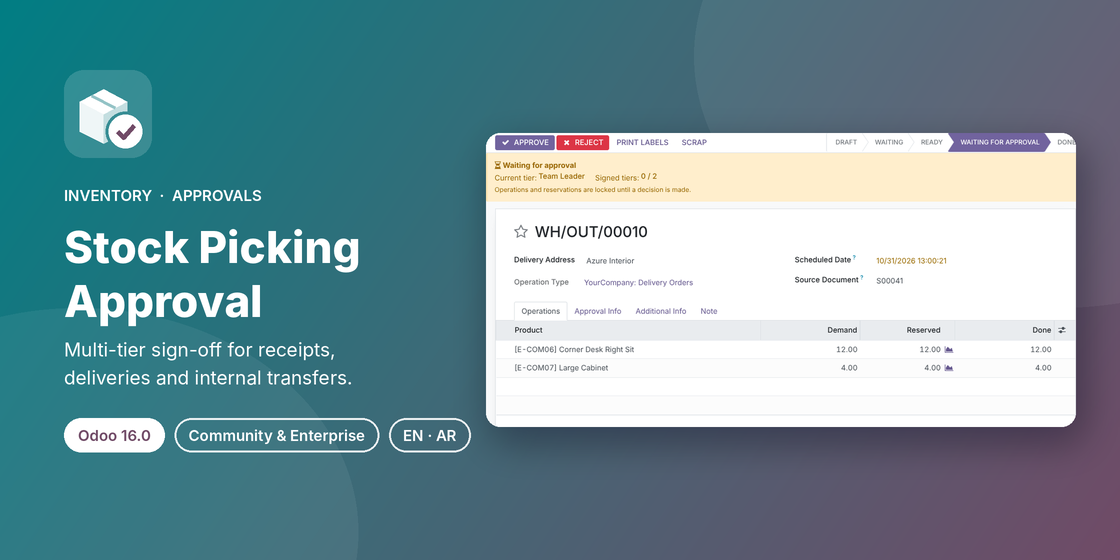
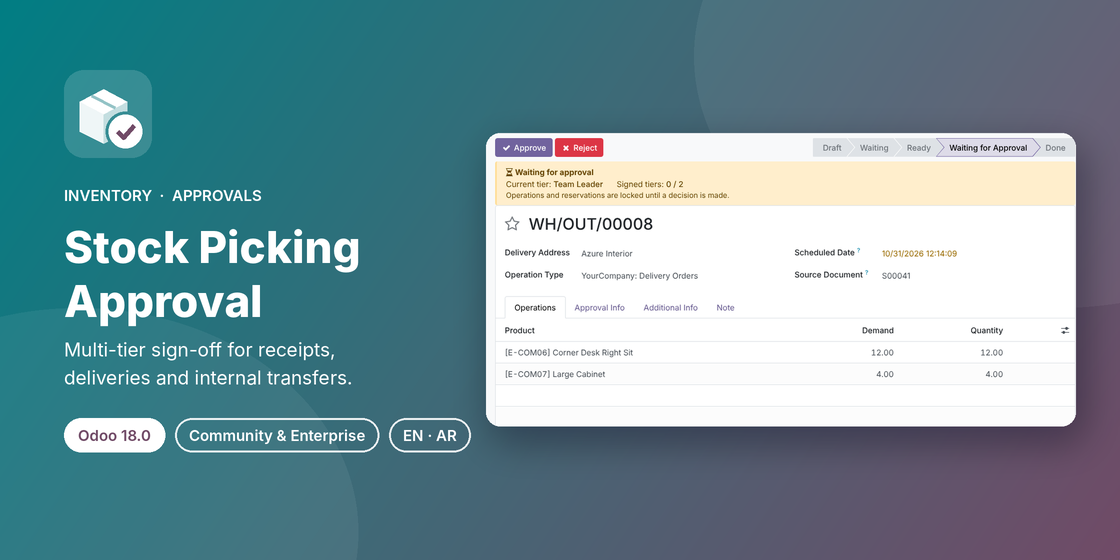
Add files via upload

diff --git a/stock_picking_approval_advanced/static/description/index.html b/stock_picking_approval_advanced/static/description/index.html
@@ -1,4 +1,4 @@
-<!-- Odoo Apps description page for stock_picking_approval_advanced (Odoo 16.0). Inline styles only: apps.odoo.com strips <style> and <script> blocks. -->
+<!-- Odoo Apps description page for stock_picking_approval_advanced (Odoo 18.0). Inline styles only: apps.odoo.com strips <style> and <script> blocks. -->
 <section style="max-width:1120px;margin:0 auto;padding:0 16px;font-family:-apple-system,BlinkMacSystemFont,'Segoe UI',Roboto,'Helvetica Neue',Arial,sans-serif;color:#2b2b33;">
 
 <!-- ============================== HERO ============================== -->
@@ -7,9 +7,9 @@
   <h1 style="font-size:40px;line-height:1.15;font-weight:700;margin:0 0 14px;color:#ffffff;">Advanced Stock Picking Approval</h1>
   <p style="font-size:19px;line-height:1.55;max-width:760px;margin:0 0 24px;color:#ffffff;opacity:.95;">Clicking <b>Validate</b> no longer moves stock on its own. Receipts, Delivery Orders and Internal Transfers that match your rules wait in a locked <b>Waiting for Approval</b> state until every approval tier has signed off, with a full audit trail of who approved, when, and why a request was rejected.</p>
   <div>
-    <span style="display:inline-block;border:1px solid rgba(255,255,255,.7);border-radius:20px;padding:6px 14px;margin:0 8px 8px 0;font-size:14px;">Odoo 16.0</span>
+    <span style="display:inline-block;border:1px solid rgba(255,255,255,.7);border-radius:20px;padding:6px 14px;margin:0 8px 8px 0;font-size:14px;">Odoo 18.0</span>
     <span style="display:inline-block;border:1px solid rgba(255,255,255,.7);border-radius:20px;padding:6px 14px;margin:0 8px 8px 0;font-size:14px;">Community &amp; Enterprise</span>
-    <span style="display:inline-block;border:1px solid rgba(255,255,255,.7);border-radius:20px;padding:6px 14px;margin:0 8px 8px 0;font-size:14px;">29 automated tests</span>
+    <span style="display:inline-block;border:1px solid rgba(255,255,255,.7);border-radius:20px;padding:6px 14px;margin:0 8px 8px 0;font-size:14px;">28 automated tests</span>
     <span style="display:inline-block;border:1px solid rgba(255,255,255,.7);border-radius:20px;padding:6px 14px;margin:0 8px 8px 0;font-size:14px;">English &amp; Arabic</span>
     <span style="display:inline-block;border:1px solid rgba(255,255,255,.7);border-radius:20px;padding:6px 14px;margin:0 8px 8px 0;font-size:14px;">Technical name: stock_picking_approval_advanced</span>
     <span style="display:inline-block;border:1px solid rgba(255,255,255,.7);border-radius:20px;padding:6px 14px;margin:0 8px 8px 0;font-size:14px;">LGPL-3</span>
@@ -21,7 +21,7 @@
   <div style="flex:1 1 220px;margin:8px;background:#f6f4f6;border-radius:14px;padding:20px 22px;"><div style="font-size:30px;font-weight:700;color:#714B67;">3 operation kinds</div><div style="font-size:15px;color:#555;">Receipts, Delivery Orders and Internal Transfers, each switchable per rule</div></div>
   <div style="flex:1 1 220px;margin:8px;background:#eef6f6;border-radius:14px;padding:20px 22px;"><div style="font-size:30px;font-weight:700;color:#017E84;">N sequential tiers</div><div style="font-size:15px;color:#555;">As many tiers per rule as you need, signed in order by users or groups</div></div>
   <div style="flex:1 1 220px;margin:8px;background:#f6f4f6;border-radius:14px;padding:20px 22px;"><div style="font-size:30px;font-weight:700;color:#714B67;">0 stock moved</div><div style="font-size:15px;color:#555;">until the last tier approves: operations and reservations stay locked</div></div>
-  <div style="flex:1 1 220px;margin:8px;background:#eef6f6;border-radius:14px;padding:20px 22px;"><div style="font-size:30px;font-weight:700;color:#017E84;">29 tests</div><div style="font-size:15px;color:#555;">Automated, plus Odoo&rsquo;s stock test suite re-run with the module installed</div></div>
+  <div style="flex:1 1 220px;margin:8px;background:#eef6f6;border-radius:14px;padding:20px 22px;"><div style="font-size:30px;font-weight:700;color:#017E84;">28 tests</div><div style="font-size:15px;color:#555;">Automated, plus Odoo&rsquo;s 615 stock tests passing with the module installed</div></div>
 </div>
 
 <!-- ============================== WHY ============================== -->
@@ -29,7 +29,7 @@
 <p style="font-size:16px;color:#555;margin:0 0 18px;">Stock leaves the warehouse the moment someone clicks Validate. For high-value goods, sensitive customers or junior staff, that is one click too few.</p>
 <div style="display:flex;flex-wrap:wrap;margin:0 -10px;">
   <div style="flex:1 1 440px;margin:10px;border:1px solid #f1d6d6;background:#fff8f8;border-radius:14px;padding:24px 26px;">
-    <h3 style="font-size:19px;font-weight:700;color:#b33939;margin:0 0 12px;">In standard Odoo 16</h3>
+    <h3 style="font-size:19px;font-weight:700;color:#b33939;margin:0 0 12px;">In standard Odoo 18</h3>
     <ul style="font-size:15px;line-height:1.65;margin:0;padding-left:20px;color:#3a3a42;">
       <li><b>Validate executes the transfer immediately</b>: there is no review step between preparation and stock movement.</li>
       <li>Any Inventory user who can open the transfer can <b>validate it</b>, whatever the operation or warehouse.</li>
@@ -64,7 +64,7 @@
 
 <!-- ============================== FEATURES ============================== -->
 <h2 style="font-size:28px;font-weight:700;margin:48px 0 6px;color:#2b2b33;">Features</h2>
-<p style="font-size:16px;color:#555;margin:0 0 6px;">Screenshots were taken on Odoo 16.0 with demo data: a two-tier rule for customer deliveries (Team Leader Sara Haddad, then any member of a <i>Warehouse Supervisors</i> group), a single-tier rule for internal transfers, and a receipts rule that only applies when Marc Demo validates.</p>
+<p style="font-size:16px;color:#555;margin:0 0 6px;">Screenshots were taken on Odoo 18.0 with demo data: a two-tier rule for customer deliveries (Team Leader Sara Haddad, then any member of a <i>Warehouse Supervisors</i> group), a single-tier rule for internal transfers, and a receipts rule that only applies when Marc Demo validates.</p>
 
 <div style="margin:44px 0 0;">
   <div style="font-size:13px;font-weight:700;color:#017E84;letter-spacing:1px;text-transform:uppercase;">Menus</div>
@@ -95,7 +95,7 @@
 <div style="margin:44px 0 0;">
   <div style="font-size:13px;font-weight:700;color:#017E84;letter-spacing:1px;text-transform:uppercase;">Feature 3</div>
   <h3 style="font-size:23px;font-weight:700;margin:4px 0 8px;">Validate &rarr; Waiting for Approval, with everything locked</h3>
-  <p style="font-size:15px;line-height:1.6;color:#555;margin:0 0 14px;">When a governed transfer is validated, drafts are confirmed and reserved, the reserved quantities are copied into <b>Done</b> (the same step as Odoo&rsquo;s <i>Immediate Transfer</i> dialog, so approvers review exactly what will move) and Odoo&rsquo;s own checks run (lots, serials, empty quantities), but <b>nothing is executed</b>. The status bar shows the new <b>Waiting for Approval</b> step, a banner shows the <b>Current tier</b> and <b>Signed tiers</b>, and <b>Validate</b>, <b>Check Availability</b>, <b>Unreserve</b> and <b>Set/Clear quantities</b> disappear, replaced by <b>Approve</b> and <b>Reject</b> for the current approver. The operations list becomes read-only, and the same lock is enforced on the server: move lines cannot be added, edited or deleted, and the transfer cannot be unreserved, rechecked or processed.</p>
+  <p style="font-size:15px;line-height:1.6;color:#555;margin:0 0 14px;">When a governed transfer is validated, drafts are confirmed, quantities are prepared and Odoo&rsquo;s own checks run (lots, serials, empty quantities), but <b>nothing is executed</b>. The status bar shows the new <b>Waiting for Approval</b> step, a banner shows the <b>Current tier</b> and <b>Signed tiers</b>, and the <b>Validate</b> buttons are replaced by <b>Approve</b> and <b>Reject</b> for the current approver. The operations list becomes read-only, and the same lock is enforced on the server: move lines cannot be added, edited or deleted, and the transfer cannot be unreserved, rechecked or processed.</p>
   <img src="spa_07_waiting_form.png" alt="Delivery waiting for approval, seen by the tier 1 approver" style="width:100%;border:1px solid #e1e1e6;border-radius:10px;box-shadow:0 6px 24px rgba(30,30,60,.10);"/>
   <div style="font-size:13px;color:#777;margin:6px 0 0;">Seen by Sara Haddad (tier 1): her Transfer Approval activity and the request email are in the chatter.</div>
 </div>
@@ -179,7 +179,7 @@
 <h2 style="font-size:28px;font-weight:700;margin:48px 0 6px;color:#2b2b33;">Built for real-world corner cases</h2>
 <p style="font-size:16px;color:#555;margin:0 0 18px;">Handled in the code, and most of them pinned down by the automated tests.</p>
 <div style="display:flex;flex-wrap:wrap;margin:0 -8px;font-size:15px;line-height:1.55;">
-  <div style="flex:1 1 320px;margin:8px;padding:16px 18px;border:1px solid #e8e8ee;border-radius:12px;"><b>Draft transfers</b><br/><span style="color:#555;">Validating a draft confirms and reserves it, then copies the reserved quantities into Done before submission, like the standard Immediate Transfer step. Quantities already entered by hand are kept.</span></div>
+  <div style="flex:1 1 320px;margin:8px;padding:16px 18px;border:1px solid #e8e8ee;border-radius:12px;"><b>Draft transfers</b><br/><span style="color:#555;">Validating a draft confirms it and fills the demanded quantities before submission, exactly like the standard Validate.</span></div>
   <div style="flex:1 1 320px;margin:8px;padding:16px 18px;border:1px solid #e8e8ee;border-radius:12px;"><b>Changes after approval</b><br/><span style="color:#555;">If quantities, products, lots or locations change on an approved transfer that is not yet done, the approval is withdrawn and a new cycle is required.</span></div>
   <div style="flex:1 1 320px;margin:8px;padding:16px 18px;border:1px solid #e8e8ee;border-radius:12px;"><b>Backorders</b><br/><span style="color:#555;">A backorder created from an approved transfer starts with no approval and goes through its own cycle.</span></div>
   <div style="flex:1 1 320px;margin:8px;padding:16px 18px;border:1px solid #e8e8ee;border-radius:12px;"><b>Inventory adjustments</b><br/><span style="color:#555;">Physical stock corrections can still release a locked reservation: reality wins over a pending approval.</span></div>
@@ -209,14 +209,14 @@
 <h2 style="font-size:28px;font-weight:700;margin:48px 0 6px;color:#2b2b33;">Technical details</h2>
 <table style="width:100%;border-collapse:collapse;font-size:15px;margin-top:14px;overflow-wrap:anywhere;">
   <tbody>
-    <tr style="border-bottom:1px solid #eee;"><td style="padding:10px 14px;width:32%;color:#777;">Odoo version</td><td style="padding:10px 14px;">16.0, Community and Enterprise</td></tr>
+    <tr style="border-bottom:1px solid #eee;"><td style="padding:10px 14px;width:32%;color:#777;">Odoo version</td><td style="padding:10px 14px;">18.0, Community and Enterprise</td></tr>
     <tr style="border-bottom:1px solid #eee;background:#fafafa;"><td style="padding:10px 14px;color:#777;">Depends on</td><td style="padding:10px 14px;"><code>stock</code>, <code>mail</code></td></tr>
     <tr style="border-bottom:1px solid #eee;"><td style="padding:10px 14px;color:#777;">Python dependency</td><td style="padding:10px 14px;">None</td></tr>
     <tr style="border-bottom:1px solid #eee;background:#fafafa;"><td style="padding:10px 14px;color:#777;">Menus</td><td style="padding:10px 14px;">Inventory &rsaquo; Operations &rsaquo; Transfers to Approve<br/>Inventory &rsaquo; Configuration &rsaquo; Approval Rules</td></tr>
     <tr style="border-bottom:1px solid #eee;"><td style="padding:10px 14px;color:#777;">Models</td><td style="padding:10px 14px;"><code>stock.picking.approval.rule</code>, <code>stock.picking.approval.tier</code>, <code>stock.picking.approval.line</code>, wizard <code>stock.picking.approval.wizard</code></td></tr>
     <tr style="border-bottom:1px solid #eee;background:#fafafa;"><td style="padding:10px 14px;color:#777;">Extends</td><td style="padding:10px 14px;"><code>stock.picking</code> (new state <code>to_approve</code>, Approval Info tab, filters), <code>stock.move</code> and <code>stock.move.line</code> (lock while under review)</td></tr>
     <tr style="border-bottom:1px solid #eee;"><td style="padding:10px 14px;color:#777;">Data</td><td style="padding:10px 14px;">3 email templates (Request, Approved, Rejected), 1 activity type (Transfer Approval)</td></tr>
-    <tr style="border-bottom:1px solid #eee;background:#fafafa;"><td style="padding:10px 14px;color:#777;">Automated tests</td><td style="padding:10px 14px;">29 <code>TransactionCase</code> tests: state interception, locking, hidden standard buttons, sequential and group-based tiers, permission enforcement, self-approval, rejection reasons, recall and cancel, rule scope and priority, signatures, notifications, backorders. Odoo&rsquo;s stock test suite (460 tests) gives the same results with the module installed as without it.</td></tr>
+    <tr style="border-bottom:1px solid #eee;background:#fafafa;"><td style="padding:10px 14px;color:#777;">Automated tests</td><td style="padding:10px 14px;">28 <code>TransactionCase</code> tests: state interception, locking, sequential and group-based tiers, permission enforcement, self-approval, rejection reasons, recall and cancel, rule scope and priority, signatures, notifications, backorders. Odoo&rsquo;s stock test suite (615 tests) passes with the module installed.</td></tr>
     <tr style="border-bottom:1px solid #eee;"><td style="padding:10px 14px;color:#777;">Translations</td><td style="padding:10px 14px;">Arabic (<code>ar_001</code>), plus a <code>.pot</code> template</td></tr>
     <tr style="border-bottom:1px solid #eee;background:#fafafa;"><td style="padding:10px 14px;color:#777;">License</td><td style="padding:10px 14px;">LGPL-3</td></tr>
   </tbody>

diff --git a/stock_picking_approval_advanced/tests/test_picking_approval.py b/stock_picking_approval_advanced/tests/test_picking_approval.py
@@ -1,7 +1,7 @@
 # -*- coding: utf-8 -*-
 from odoo import Command
 from odoo.exceptions import AccessError, UserError, ValidationError
-from odoo.tests import Form, TransactionCase, new_test_user, tagged
+from odoo.tests import TransactionCase, new_test_user, tagged
 
 
 @tagged('post_install', '-at_install', 'stock_picking_approval')
@@ -25,7 +25,7 @@ class TestPickingApproval(TransactionCase):
         cls.type_int.active = True
 
         cls.product = cls.env['product.product'].create({
-            'name': 'Approval Widget', 'type': 'product',
+            'name': 'Approval Widget', 'type': 'consu', 'is_storable': True,
         })
         cls.env['stock.quant']._update_available_quantity(cls.product, cls.stock_location, 100)
 
@@ -87,14 +87,7 @@ class TestPickingApproval(TransactionCase):
         return self._create_picking(self.type_out, self.stock_location, self.customer_location, qty)
 
     def _submit(self, picking, user=None):
-        """Click Validate. Transfers without an approval rule follow the standard 16.0 flow,
-        where an "Immediate Transfer?" dialog may open: confirm it like a user would."""
-        res = picking.with_user(user or self.requester).button_validate()
-        if isinstance(res, dict) and res.get('res_model') == 'stock.immediate.transfer':
-            wizard = Form(self.env[res['res_model']].with_user(user or self.requester).with_context(
-                res['context'])).save()
-            res = wizard.process()
-        return res
+        return picking.with_user(user or self.requester).button_validate()
 
     def _decide(self, picking, user, action='approve', **values):
         wizard = self.env['stock.picking.approval.wizard'].with_user(user).create(
@@ -134,15 +127,14 @@ class TestPickingApproval(TransactionCase):
         # Inventory is untouched and the reservation is kept.
         self.assertEqual(self._on_hand(), 100)
         self.assertEqual(delivery.move_ids.state, 'assigned')
-        self.assertEqual(delivery.move_ids.reserved_availability, 10)
-        self.assertEqual(delivery.move_ids.quantity_done, 10, "Done quantities prepared like the Immediate Transfer step")
+        self.assertEqual(delivery.move_ids.quantity, 10)
 
     def test_03_draft_transfer_is_confirmed_on_submission(self):
         delivery = self._create_picking(self.type_out, self.stock_location, self.customer_location, confirm=False)
         self.assertEqual(delivery.state, 'draft')
         self._submit(delivery)
         self.assertEqual(delivery.state, 'to_approve')
-        self.assertEqual(delivery.move_ids.quantity_done, 10)
+        self.assertEqual(delivery.move_ids.quantity, 10)
 
     def test_04_cannot_validate_while_pending(self):
         delivery = self._delivery()
@@ -156,9 +148,9 @@ class TestPickingApproval(TransactionCase):
         delivery = self._delivery()
         self._submit(delivery)
         with self.assertRaises(UserError):
-            delivery.move_ids.with_user(self.requester).write({'quantity_done': 3})
+            delivery.move_ids.with_user(self.requester).write({'quantity': 3})
         with self.assertRaises(UserError):
-            delivery.move_ids.move_line_ids.with_user(self.requester).write({'qty_done': 1})
+            delivery.move_ids.move_line_ids.with_user(self.requester).write({'quantity': 1})
         with self.assertRaises(UserError):
             delivery.with_user(self.requester).do_unreserve()
         with self.assertRaises(UserError):
@@ -168,20 +160,8 @@ class TestPickingApproval(TransactionCase):
                 'name': self.product.display_name, 'product_id': self.product.id, 'product_uom_qty': 1,
                 'location_id': self.stock_location.id, 'location_dest_id': self.customer_location.id,
             })]})
-        self.assertEqual(delivery.move_ids.quantity_done, 10)
-        self.assertEqual(delivery.move_ids.reserved_availability, 10)
+        self.assertEqual(delivery.move_ids.quantity, 10)
         self.assertEqual(delivery.move_ids.state, 'assigned')
-
-    def test_05b_standard_buttons_hidden_while_pending(self):
-        """16.0: Validate, Set/Clear quantities and Check Availability hide themselves
-        through their own computes for the 'to_approve' state."""
-        delivery = self._delivery()
-        self._submit(delivery)
-        self.assertEqual(delivery.state, 'to_approve')
-        self.assertFalse(delivery.show_validate)
-        self.assertFalse(delivery.show_set_qty_button)
-        self.assertFalse(delivery.show_clear_qty_button)
-        self.assertFalse(delivery.show_check_availability)
 
     def test_06_action_done_guard(self):
         """Even a direct call to the engine cannot execute a pending transfer."""
@@ -278,7 +258,7 @@ class TestPickingApproval(TransactionCase):
         self.assertEqual(delivery.approval_state, 'rejected')
         self.assertEqual(delivery.approval_rejection_reason, 'Wrong customer')
         self.assertEqual(delivery.state, 'assigned', "Back to Ready with reservation kept")
-        self.assertEqual(delivery.move_ids.reserved_availability, 10)
+        self.assertEqual(delivery.move_ids.quantity, 10)
         line_1, line_2 = delivery.approval_line_ids.sorted('sequence')
         self.assertEqual((line_1.state, line_1.rejection_reason, line_1.user_id),
                          ('rejected', 'Wrong customer', self.approver_1))
@@ -289,7 +269,7 @@ class TestPickingApproval(TransactionCase):
             delivery._action_done()
 
         # Operations are editable again, and validating restarts the workflow.
-        delivery.move_ids.with_user(self.requester).write({'quantity_done': 8})
+        delivery.move_ids.with_user(self.requester).write({'quantity': 8})
         self._submit(delivery)
         self.assertEqual(delivery.approval_cycle, 2)
         self.assertEqual(delivery.approval_state, 'pending')
@@ -381,7 +361,7 @@ class TestPickingApproval(TransactionCase):
         self._submit(delivery)
         self._decide(delivery, self.approver_1)
         self._decide(delivery, self.approver_2)
-        delivery.move_ids.with_user(self.requester).write({'quantity_done': 5})
+        delivery.move_ids.with_user(self.requester).write({'quantity': 5})
         self.assertEqual(delivery.approval_state, 'none')
         self._submit(delivery)
         self.assertEqual(delivery.state, 'to_approve')
@@ -410,7 +390,7 @@ class TestPickingApproval(TransactionCase):
     def test_34_backorder_needs_its_own_approval(self):
         self.type_out.create_backorder = 'always'
         delivery = self._delivery()
-        delivery.move_ids.quantity_done = 6
+        delivery.move_ids.quantity = 6
         self._submit(delivery)
         self._decide(delivery, self.approver_1)
         self._decide(delivery, self.approver_2)

diff --git a/stock_picking_approval_advanced/models/stock_picking.py b/stock_picking_approval_advanced/models/stock_picking.py
@@ -94,8 +94,7 @@ class StockPicking(models.Model):
         for picking in self:
             partners = picking.approval_current_approver_ids.partner_id
             picking.approval_mail_partner_to = ','.join(str(pid) for pid in partners.ids)
-            picking.approval_record_url = '%s/web#id=%s&model=stock.picking&view_type=form' % (
-                picking.get_base_url(), picking.id)
+            picking.approval_record_url = '%s/odoo/stock.picking/%s' % (picking.get_base_url(), picking.id)
 
     @api.depends_context('uid')
     @api.depends('state', 'approval_state', 'approval_requested_by_id',
@@ -116,14 +115,15 @@ class StockPicking(models.Model):
     def _search_approval_is_mine(self, operator, value):
         if operator not in ('=', '!=') or not isinstance(value, bool):
             raise NotImplementedError(_("Operation not supported"))
-        # 16.0 has no 'any' domain operator: resolve the pending lines first.
-        lines = self.env['stock.picking.approval.line'].sudo().search([
-            ('state', '=', 'pending'),
-            ('approver_user_ids', 'in', [self.env.uid]),
-            ('picking_id.state', '=', 'to_approve'),
-        ])
+        domain = [
+            ('state', '=', 'to_approve'),
+            ('approval_line_ids', 'any', [
+                ('state', '=', 'pending'),
+                ('approver_user_ids', 'in', [self.env.uid]),
+            ]),
+        ]
         positive = (operator == '=') == value
-        return [('id', 'in' if positive else 'not in', lines.picking_id.ids)]
+        return domain if positive else ['!', '&', *domain]
 
     # ------------------------------------------------------------------
     # ORM guards
@@ -241,24 +241,19 @@ class StockPicking(models.Model):
             lambda l: l.cycle == self.approval_cycle).sorted(lambda l: (l.sequence, l.id))
 
     def _approval_prepare_submission(self):
-        """Same preparation as the standard 16.0 validation, without executing it.
-
-        In 16.0, validating a transfer with no done quantity opens the "Immediate Transfer"
-        wizard, which confirms/reserves drafts and copies the reserved quantities into the
-        done quantities. Submitting for approval applies the same step, so approvers review
-        the quantities that will actually be processed.
-        """
+        """Same preparation as the standard validation, without executing it."""
         draft = self.filtered(lambda p: p.state == 'draft')
         draft.action_confirm()
-        to_reserve = draft.filtered(lambda p: p.state != 'assigned')
-        if to_reserve:
-            to_reserve.action_assign()
-        immediate = self._check_immediate()
-        immediate.move_ids._set_quantities_to_reservation()
+        for move in draft.move_ids:
+            rounding = move.product_uom.rounding
+            if float_is_zero(move.quantity, precision_rounding=rounding) and \
+                    not float_is_zero(move.product_uom_qty, precision_rounding=rounding):
+                move.quantity = move.product_uom_qty
         if not self.env.context.get('skip_sanity_check'):
             self._sanity_check()
+        # Odoo 18 subscribes the validating user, keep the same behaviour on submission.
         self.message_subscribe([self.env.user.partner_id.id])
-        if any(all(float_is_zero(m.quantity_done, precision_rounding=m.product_uom.rounding) for m in p.move_ids)
+        if any(all(float_is_zero(m.quantity, precision_rounding=m.product_uom.rounding) for m in p.move_ids)
                for p in self):
             raise UserError(_("You cannot request approval for a transfer without any quantity to process."))
 

diff --git a/stock_picking_approval_advanced/models/stock_move.py b/stock_picking_approval_advanced/models/stock_move.py
@@ -1,14 +1,12 @@
 # -*- coding: utf-8 -*-
 from odoo import api, models
 
-# 16.0 field names: done quantities live in quantity_done (move) / qty_done (move line),
-# reservations in reserved_uom_qty (move line).
 LOCKED_MOVE_FIELDS = {
-    'product_id', 'product_uom_qty', 'quantity_done', 'product_uom',
+    'product_id', 'product_uom_qty', 'quantity', 'product_uom', 'picked',
     'location_id', 'location_dest_id', 'picking_id',
 }
 LOCKED_MOVE_LINE_FIELDS = {
-    'product_id', 'qty_done', 'reserved_uom_qty', 'product_uom_id', 'lot_id', 'lot_name',
+    'product_id', 'quantity', 'product_uom_id', 'picked', 'lot_id', 'lot_name',
     'location_id', 'location_dest_id', 'package_id', 'result_package_id', 'owner_id',
     'move_id', 'picking_id',
 }

diff --git a/stock_picking_approval_advanced/models/stock_picking_approval_rule.py b/stock_picking_approval_advanced/models/stock_picking_approval_rule.py
@@ -77,8 +77,8 @@ class StockPickingApprovalRule(models.Model):
 
     def _compute_picking_count(self):
         data = self.env['stock.picking']._read_group(
-            [('approval_rule_id', 'in', self.ids)], ['approval_rule_id'], ['approval_rule_id'])
-        counts = {d['approval_rule_id'][0]: d['approval_rule_id_count'] for d in data}
+            [('approval_rule_id', 'in', self.ids)], ['approval_rule_id'], ['__count'])
+        counts = {rule.id: count for rule, count in data}
         for rule in self:
             rule.picking_count = counts.get(rule.id, 0)
 

diff --git a/stock_picking_approval_advanced/__manifest__.py b/stock_picking_approval_advanced/__manifest__.py
@@ -1,7 +1,7 @@
 # -*- coding: utf-8 -*-
 {
     'name': 'Advanced Stock Picking Approval',
-    'version': '16.0.1.0.0',
+    'version': '18.0.1.0.0',
     'category': 'Inventory/Inventory',
     'summary': 'Multi-level, rule-based approval workflow for Receipts, '
                'Delivery Orders and Internal Transfers',

diff --git a/stock_picking_approval_advanced/README.md b/stock_picking_approval_advanced/README.md
@@ -1,6 +1,6 @@
 # Advanced Stock Picking Approval (`stock_picking_approval_advanced`)
 
-Odoo 16.0 · Community & Enterprise · depends on `stock`, `mail` · LGPL-3 · Author: Ibrahim Yahia
+Odoo 18.0 · Community & Enterprise · depends on `stock`, `mail` · LGPL-3 · Author: Ibrahim Yahia
 
 Routes the validation of Receipts, Delivery Orders and Internal Transfers through a
 rule-based, sequential multi-tier approval workflow.
@@ -60,6 +60,6 @@ Rules are evaluated by sequence; the first match wins.
 odoo-bin -d <db> -i stock_picking_approval_advanced --test-tags /stock_picking_approval_advanced --stop-after-init
 ```
 
-29 `TransactionCase` tests cover state interception, locking, sequential tiers,
+28 `TransactionCase` tests cover state interception, locking, sequential tiers,
 group-based approvers, permission enforcement, self-approval, rejection reasons,
 recall/cancel, rule scoping and priority, signatures, notifications and backorders.
